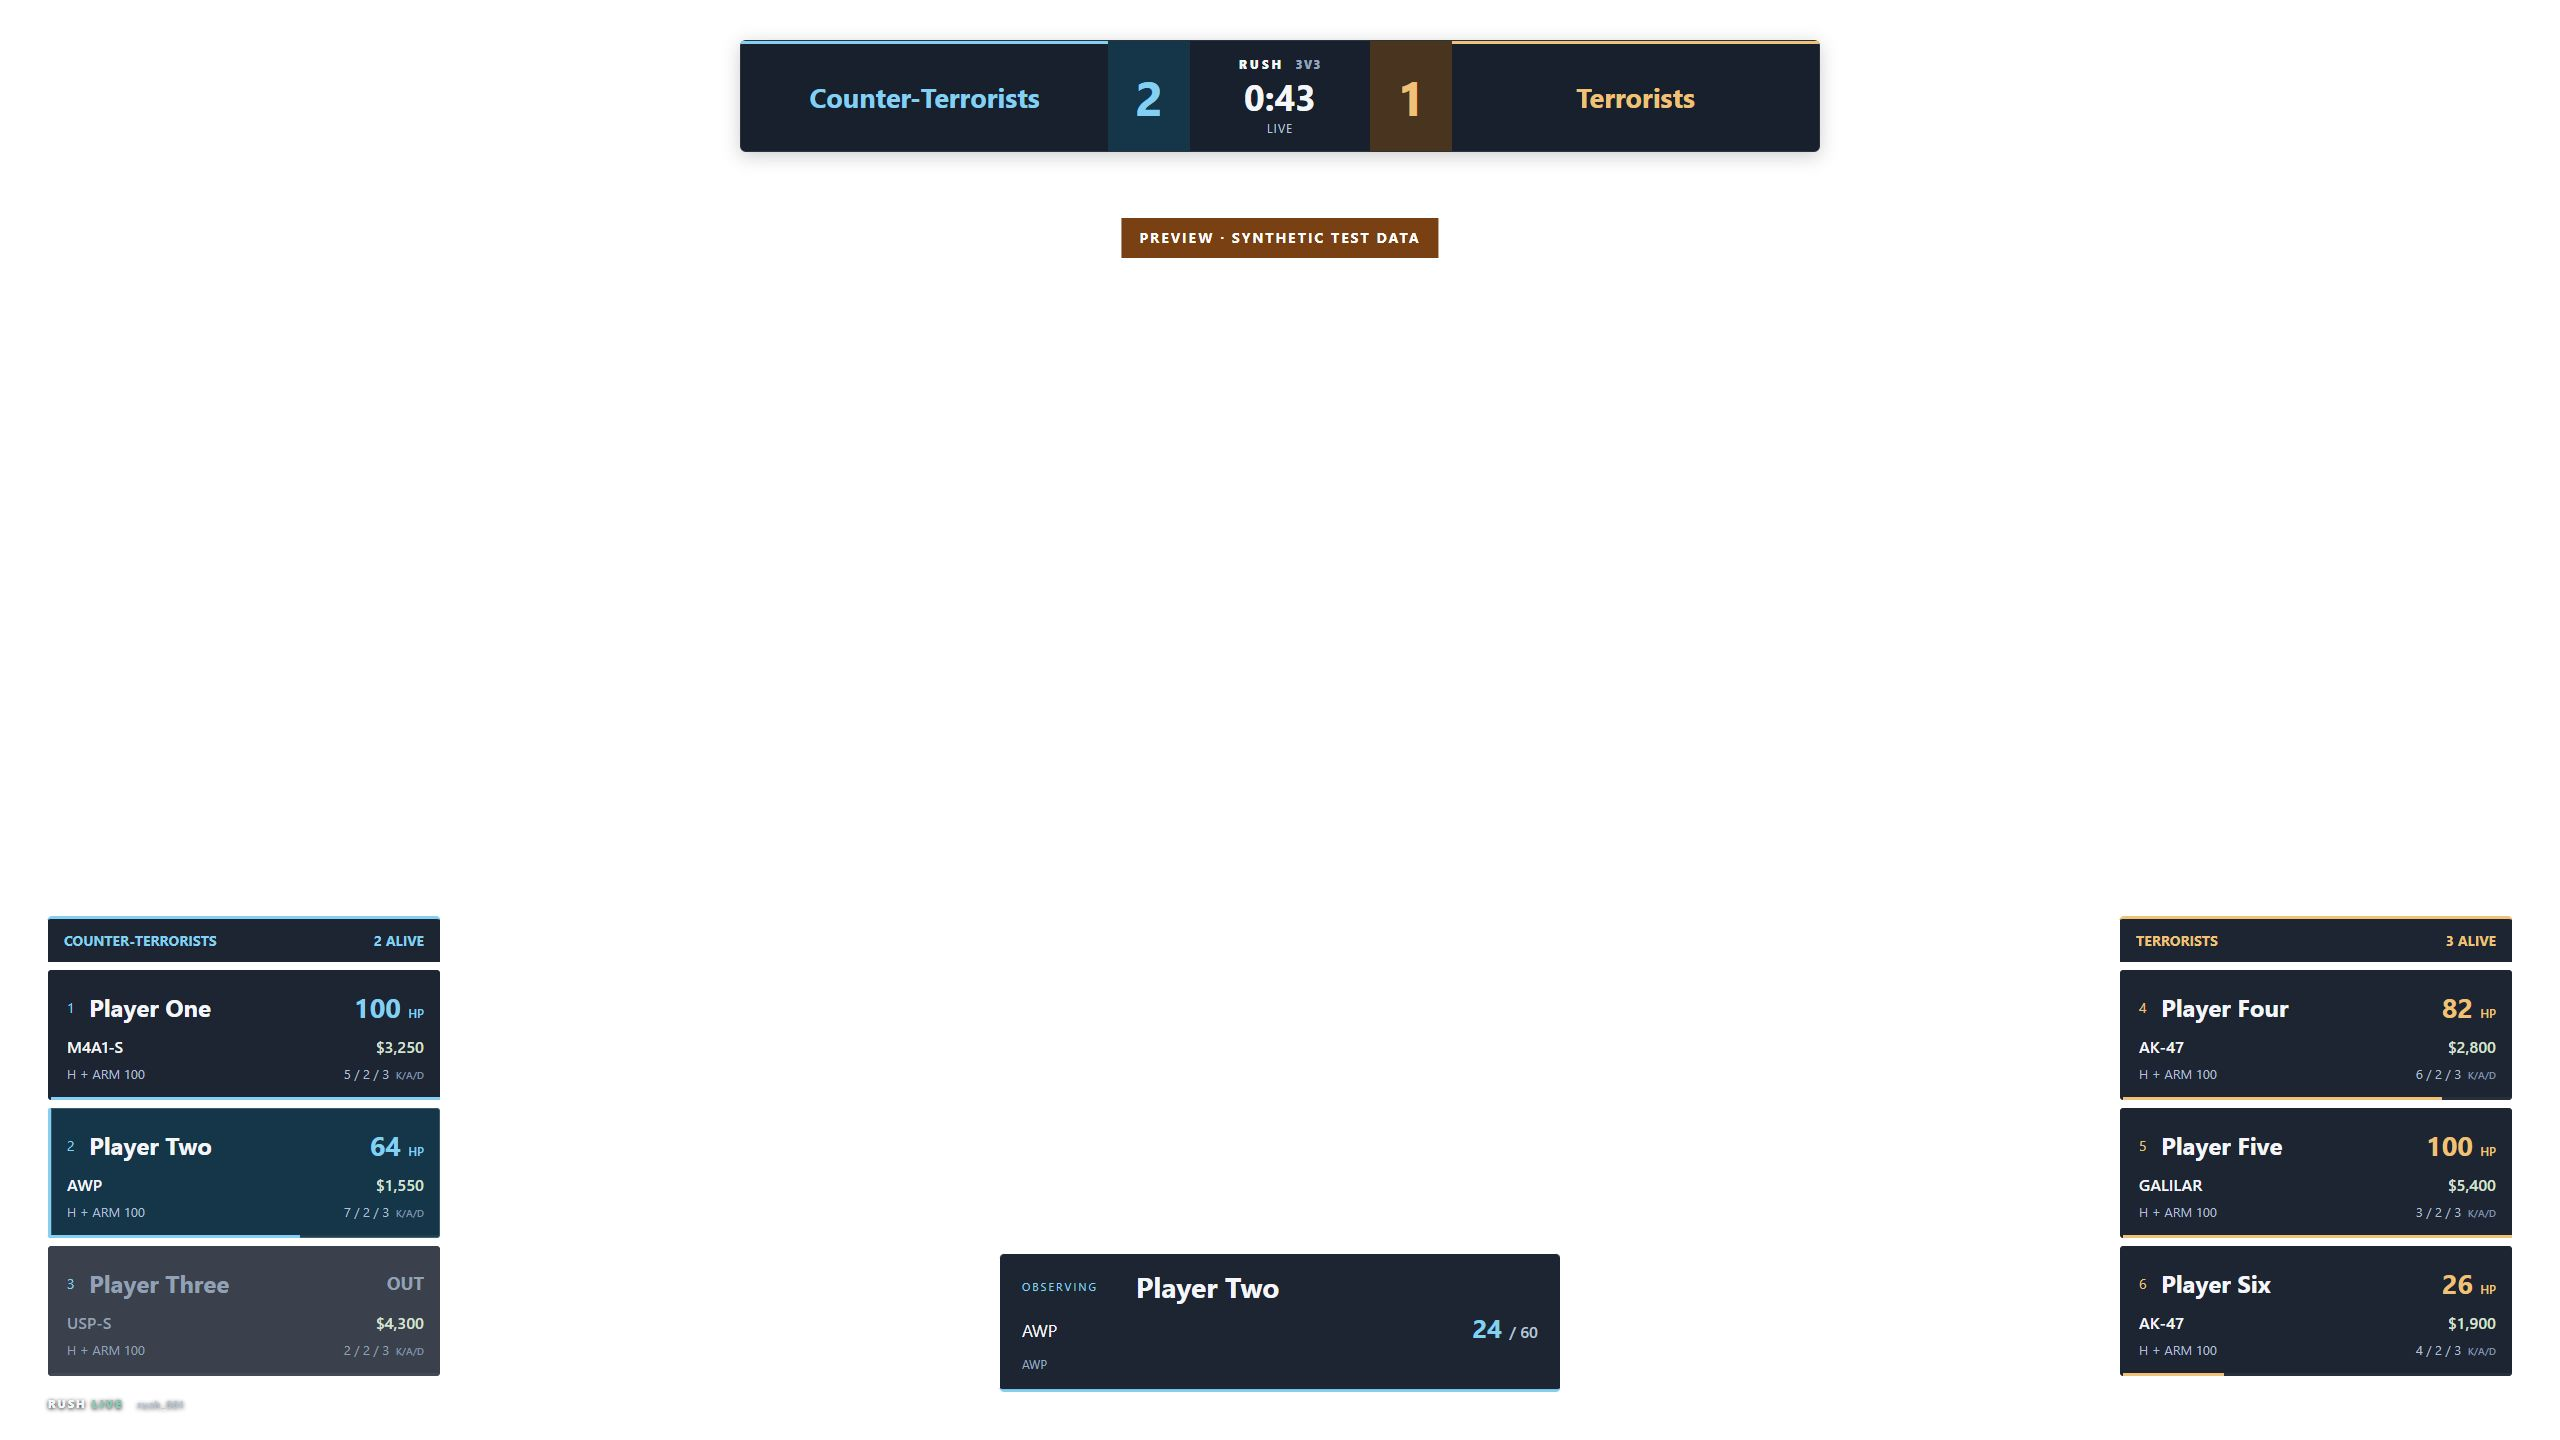
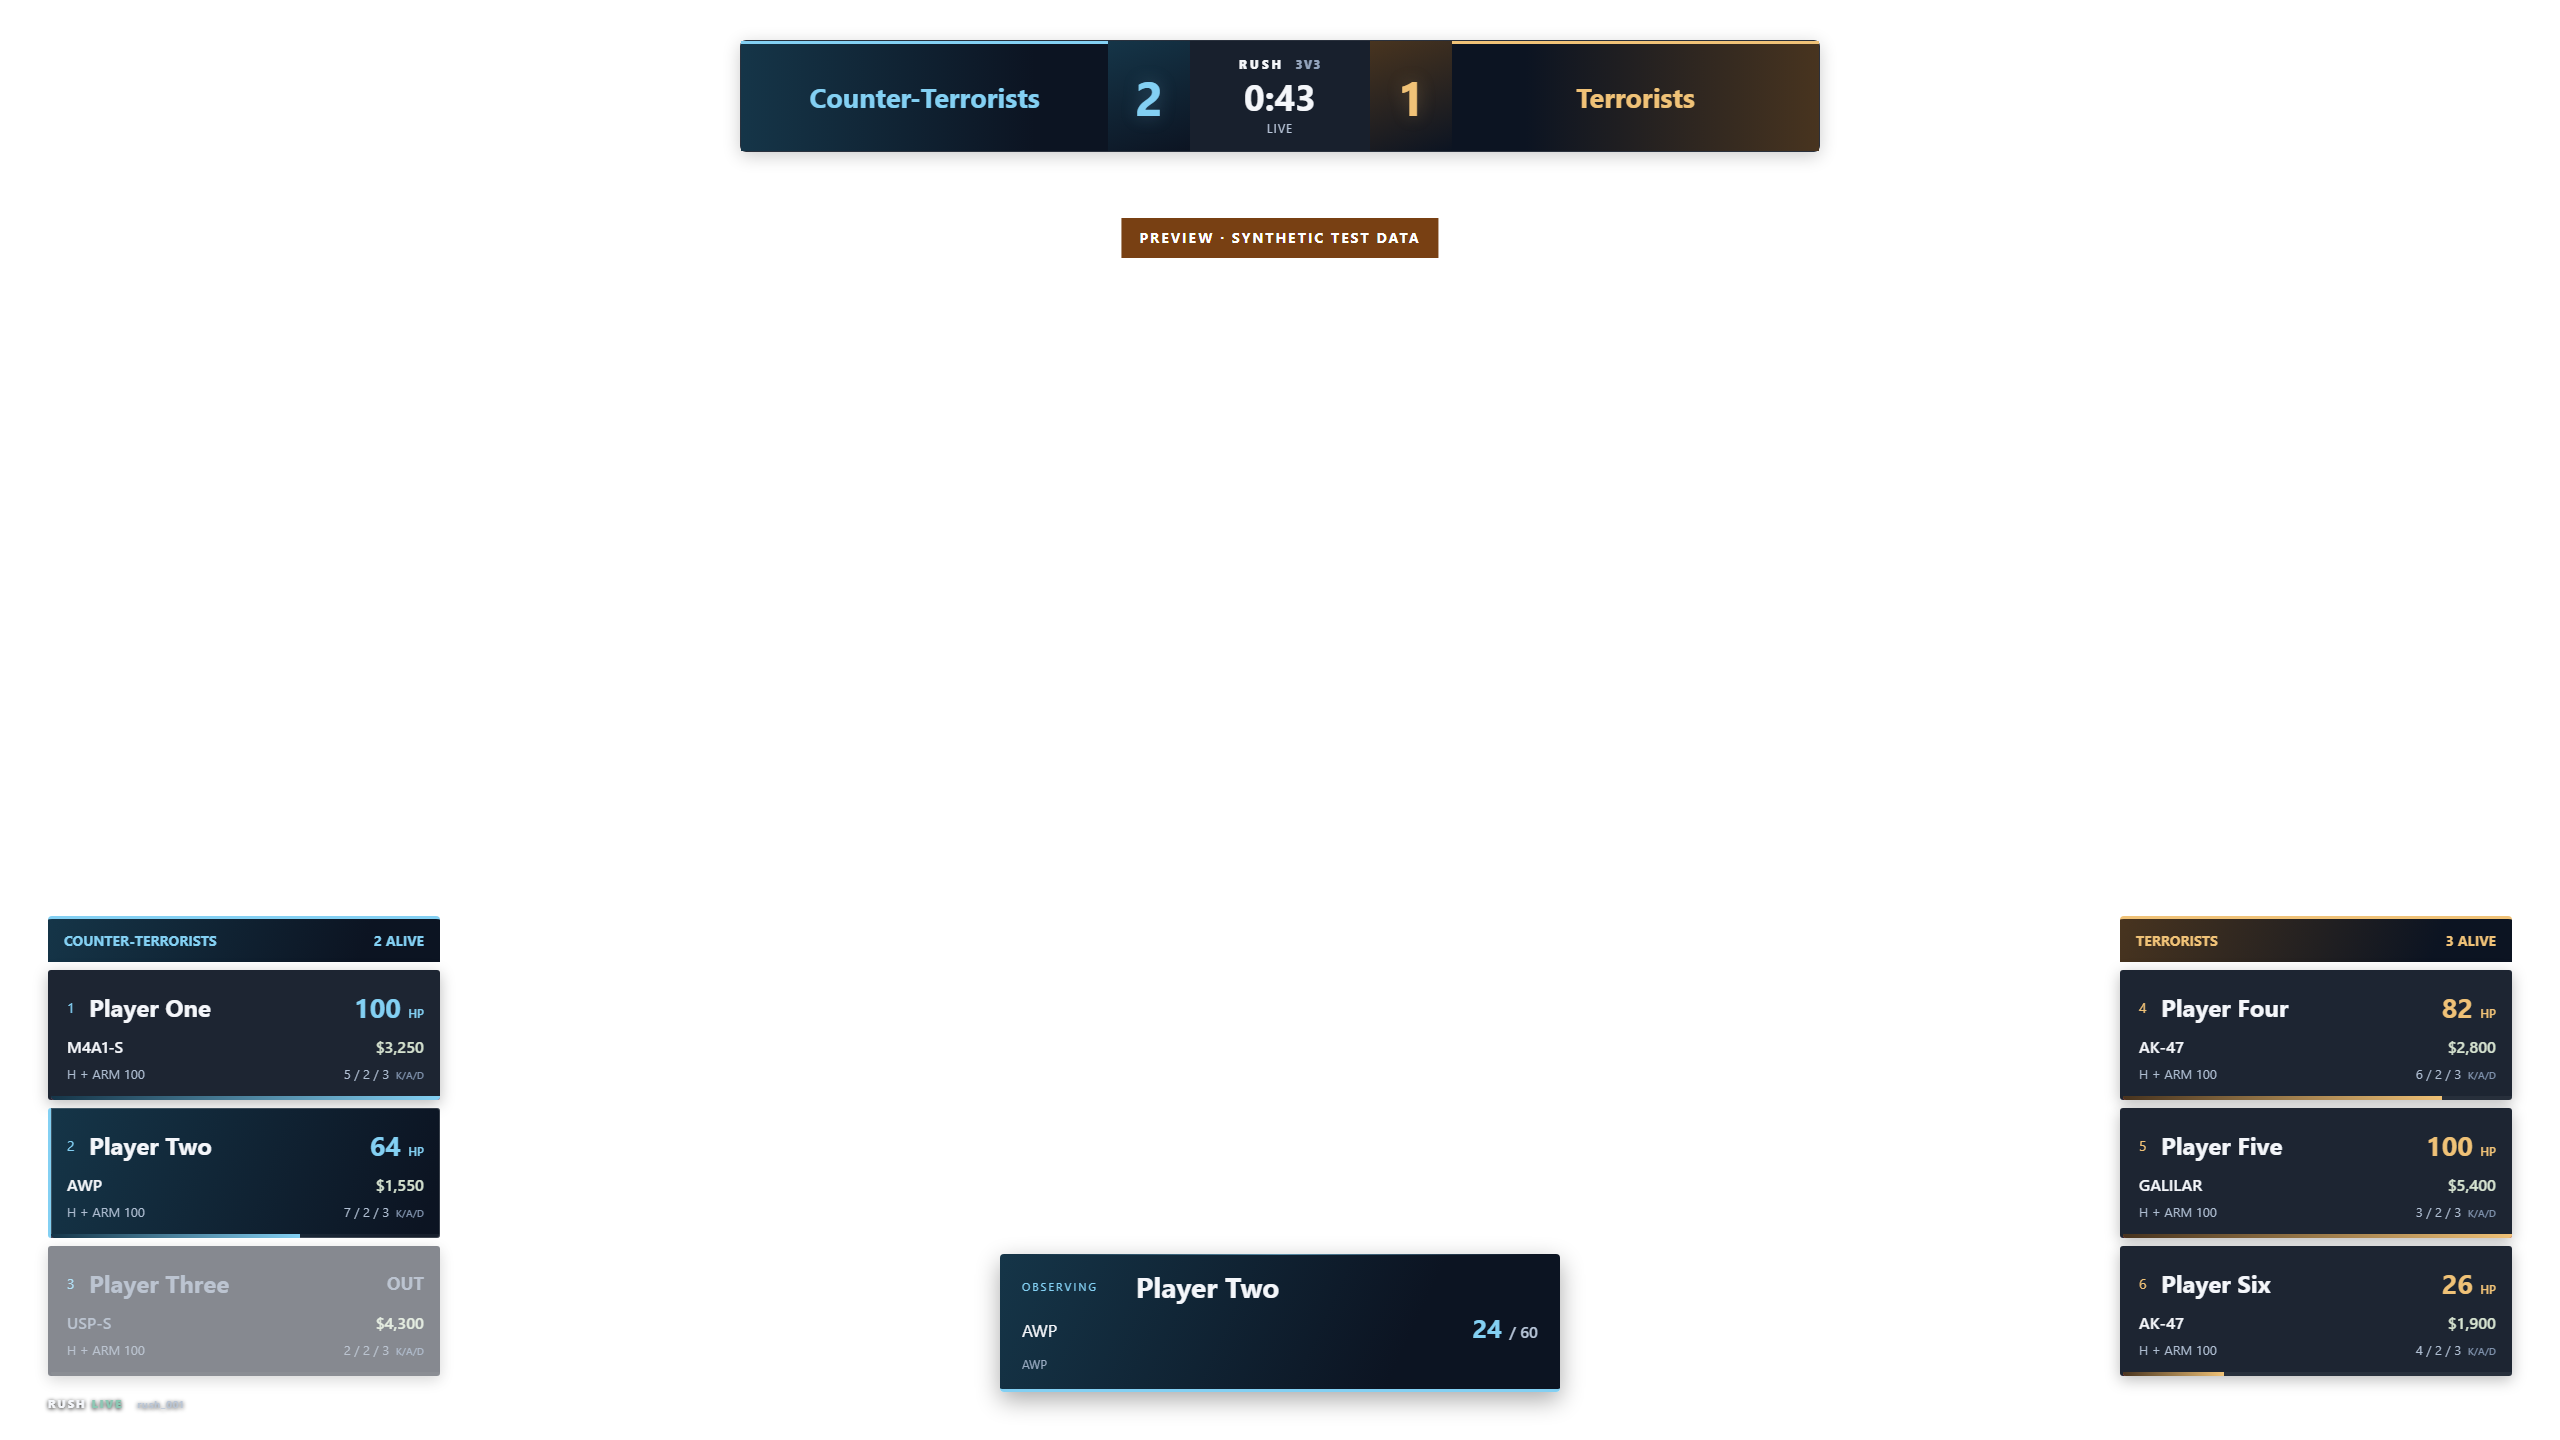
Add JT-style motion to the RUSH HUD

diff --git a/style.css b/style.css
@@ -3,7 +3,8 @@ html, body { margin: 0; width: 100%; height: 100%; overflow: hidden; background:
 body { font-family: 'Segoe UI', Arial, sans-serif; color: #f4f6fa; -webkit-font-smoothing: antialiased; }
 #hud { position: absolute; inset: 0; pointer-events: none; }
 .stage { position: absolute; width: 2560px; height: 1440px; left: 50%; top: 50%; transform: translate(-50%, -50%) scale(var(--scale, 1)); }
-.hidden { display: none; }
+.stage { transition: opacity .3s ease, visibility .3s ease; }
+.hidden { opacity: 0; visibility: hidden; }
 .CT { --team: #83d0f3; --team-dark: #153548; }
 .T { --team: #f0c277; --team-dark: #48341f; }
 .stage img, .stage svg { display: block; max-width: 100%; max-height: 100%; object-fit: contain; flex-shrink: 0; }
@@ -64,3 +65,29 @@ footer { position: absolute; bottom: 28px; left: 48px; max-width: 392px; font-si
 footer span { color: #8cc8b4; }
 footer small { margin-left: 14px; font-size: 10px; letter-spacing: 1px; color: #b8c5d7; }
 .preview-tag { position: absolute; top: 218px; left: 50%; transform: translateX(-50%); padding: 10px 18px; background: #784013; color: #fff; font-size: 14px; line-height: 20px; font-weight: 700; letter-spacing: 2px; }
+
+/* JT-style motion, adapted to the RUSH safe areas; no game assets required. */
+.team-name.CT { background: linear-gradient(90deg, #153548, #0c1422 80%); }
+.team-name.T { background: linear-gradient(-90deg, #48341f, #0c1422 80%); }
+.score { background: linear-gradient(160deg, var(--team-dark), #0c1422); text-shadow: 0 0 18px color-mix(in srgb, var(--team) 25%, transparent); }
+.scoreboard { animation: scoreboard-in .5s cubic-bezier(.23,1,.32,1) both; }
+.roster { --enter-x: -24px; animation: roster-in .5s cubic-bezier(.23,1,.32,1) both; }
+.roster.T { --enter-x: 24px; }
+.roster-title { background: linear-gradient(110deg, var(--team-dark), #0c1422 80%); }
+.player { box-shadow: 0 4px 15px #0004; transition: background-color .3s ease, border-color .3s ease, opacity .3s ease; }
+.player.observed { background: linear-gradient(110deg, var(--team-dark), #0c1422 95%); }
+.player.dead { opacity: .62; }
+.player .health { transition: color .3s ease; }
+.health-track { height: 4px; overflow: hidden; border-radius: 0 0 3px 3px; }
+.health-track i { position: absolute; inset: 0 auto 0 0; height: 100%; }
+.health-track .health-fill { background: linear-gradient(90deg, var(--team-dark), var(--team)); transition: width .3s ease-out; }
+.health-track .health-trail { background: #ff4d64; transition: width .6s ease-out 1.2s; }
+.damage-number { position: absolute; right: 18px; top: 2px; z-index: 2; opacity: 0; color: #fff; font-size: 18px; font-weight: 800; text-shadow: 0 2px 6px #000; }
+.observed-player { background: linear-gradient(115deg, var(--team-dark), #0c1422 72%); box-shadow: 0 8px 24px #0005; animation: observer-in .35s ease-out both; }
+.observed-player::before { content: ''; position: absolute; top: 0; left: 22px; right: 22px; height: 1px; background: linear-gradient(90deg, transparent, var(--team), transparent); opacity: .6; }
+@keyframes scoreboard-in { from { opacity: 0; transform: translateY(-18px); } to { opacity: 1; transform: translateY(0); } }
+@keyframes roster-in { from { opacity: 0; transform: translateX(var(--enter-x)); } to { opacity: 1; transform: translateX(0); } }
+@keyframes observer-in { from { opacity: 0; transform: translateY(18px); } to { opacity: 1; transform: translateY(0); } }
+@media (prefers-reduced-motion: reduce) {
+  .stage, .stage *, .stage *::before { animation: none !important; transition: none !important; }
+}

diff --git a/README.md b/README.md
@@ -30,6 +30,7 @@ End users do not need Node.js or a separate addon server. Remove the addon throu
 - CT/T rosters, reported team scores, game phase and countdown.
 - Health, armor, money, active weapons, kills, assists and deaths.
 - Observed-player highlighting and ammunition.
+- JT-style sliding panels, team gradients, floating damage numbers, delayed red health trails, death transitions and score/observer change animations. Animations respect reduced-motion preferences.
 - Waiting states for missing rosters and unavailable values. Old data clears after ten seconds without updates or immediately on disconnection.
 
 The 1440p layout has 48px side margins, compact lower-corner rosters, a top scoreboard and a bottom observer panel. The center between the rosters is 1680px wide. Long names wrap and shrink within their panels.

diff --git a/CHANGELOG.md b/CHANGELOG.md
@@ -1,5 +1,11 @@
 # Changelog
 
+## 1.2.0
+
+- Adapt JT-style panel entrances, team gradients, damage numbers, delayed health trails, death transitions and score/observer change animations to the RUSH layout.
+- Preserve rendered panels across GSI updates so timer changes do not restart animations.
+- Respect reduced-motion preferences and suppress damage effects on reconnects and round resets.
+
 ## 1.1.0
 
 First public release of JTs-Hud-Rush-Addon.
